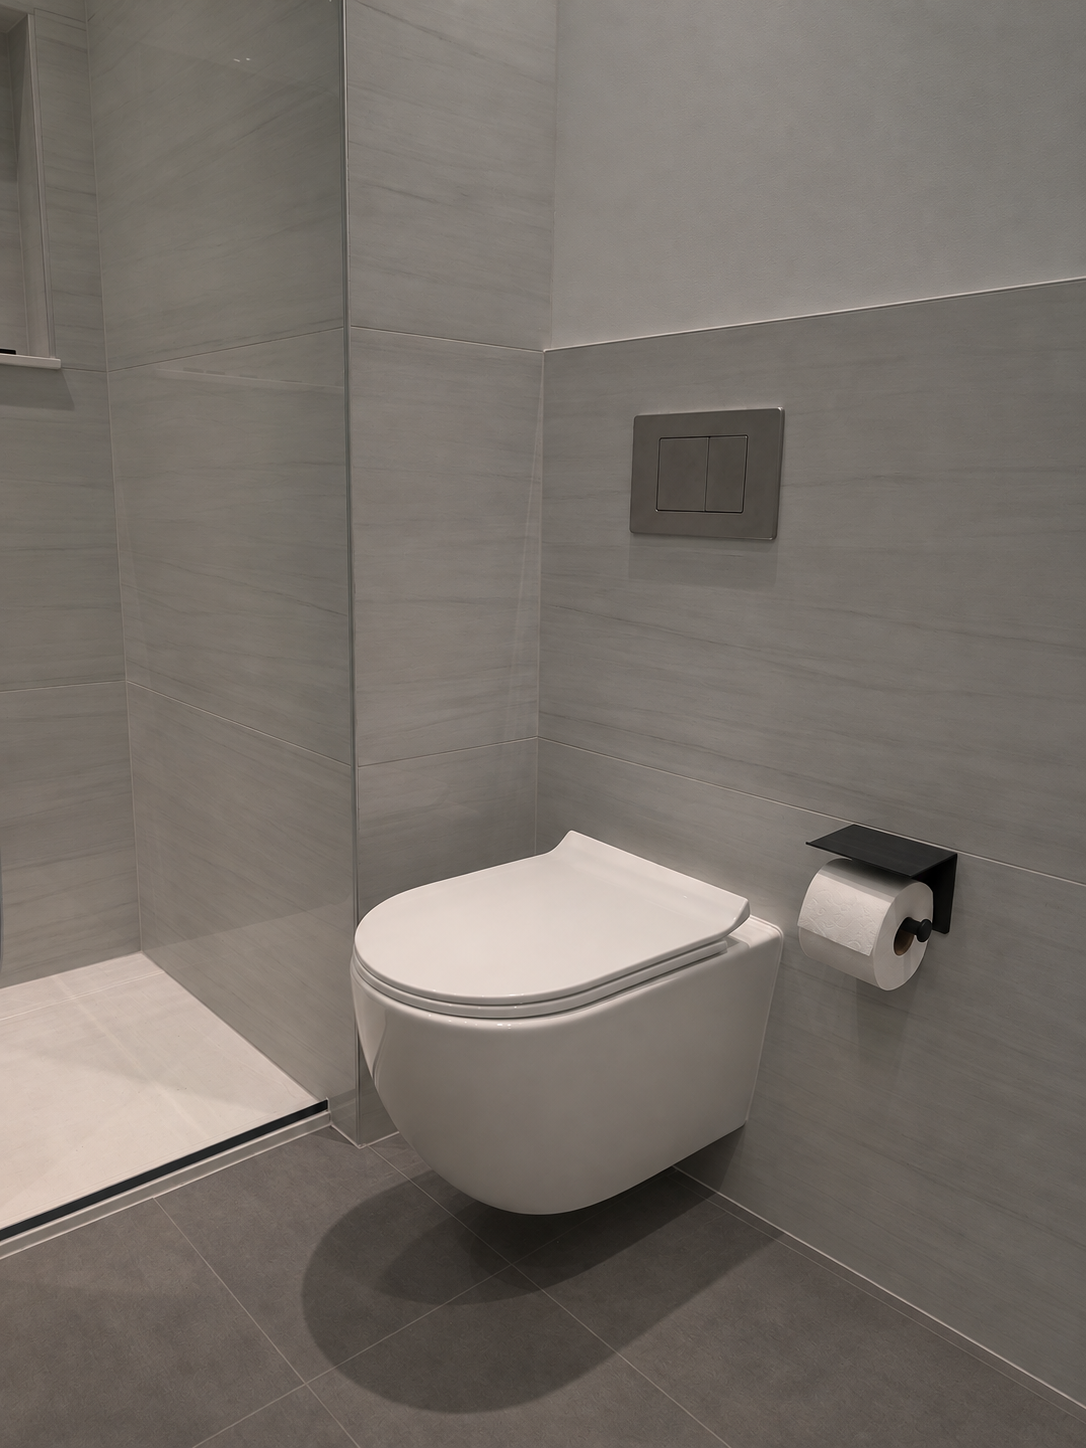
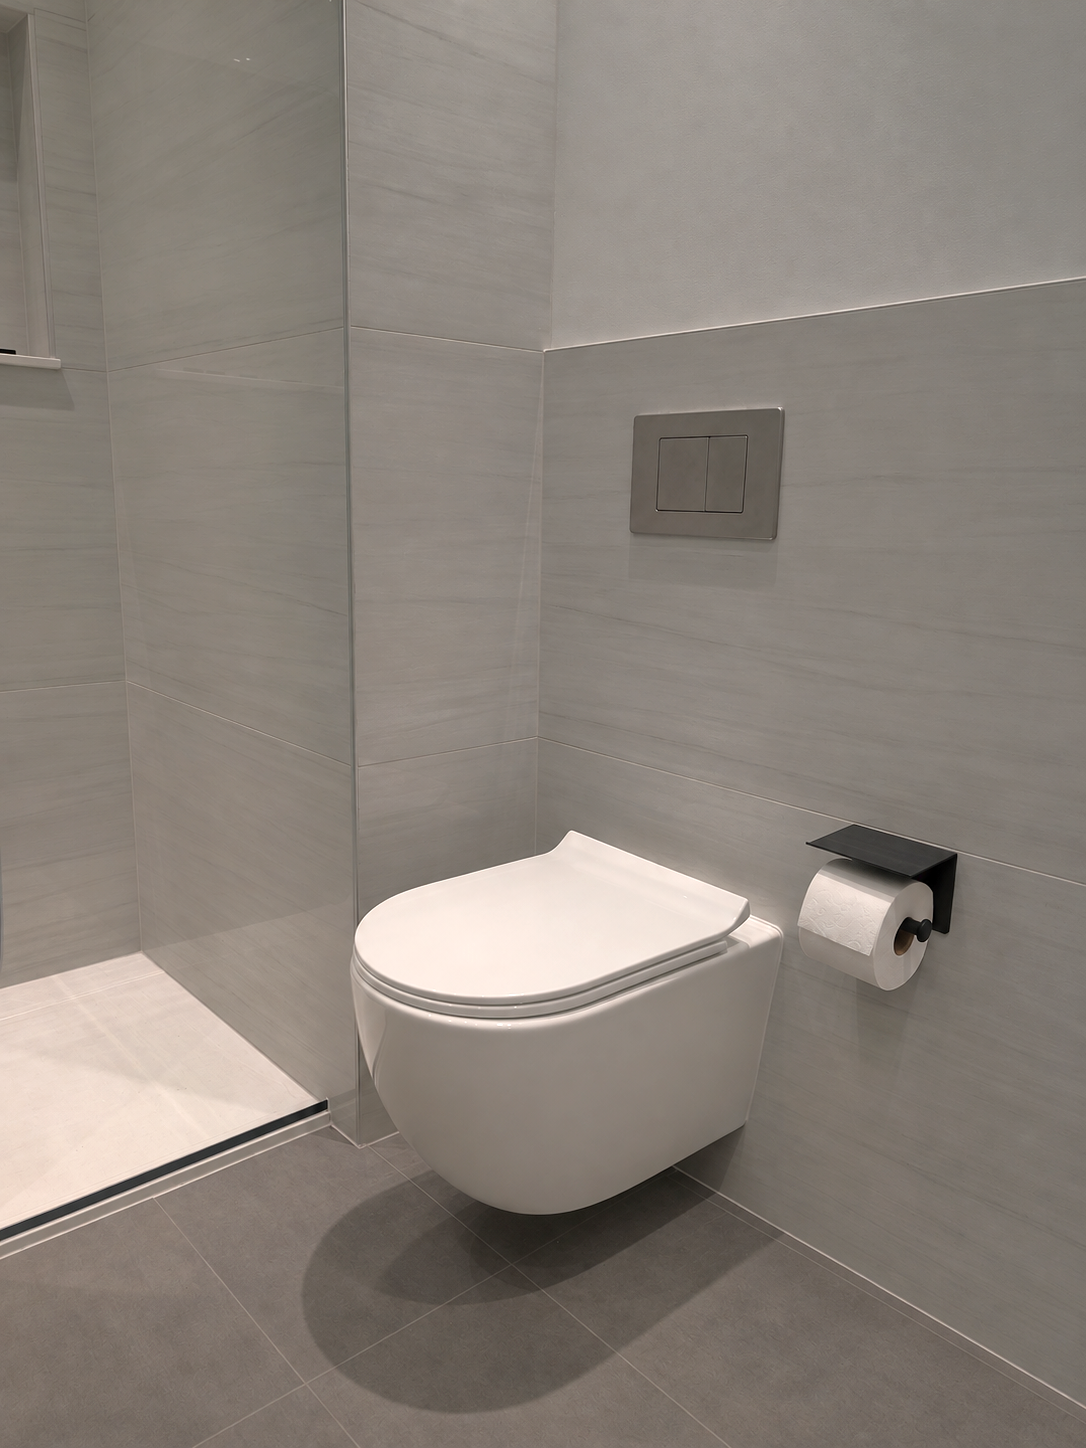
changes

Changed region(s): [[0.0, 0.6526, 0.2735, 0.8702], [0.3039, 0.5594, 0.7293, 0.7148], [0.7293, 0.5905, 0.8204, 0.6526]]

diff --git a/works/Bathrooms/monochrome-bathroom/monochrome-bathroom.html b/works/Bathrooms/monochrome-bathroom/monochrome-bathroom.html
@@ -116,8 +116,9 @@
     <div class="row justify-content-center">
       <div class="col-md-11 col-lg-9 blog-content mx-auto">
         <p class="lead mb-5">
-          A clean, monochrome bathroom design with an understated palette and timeless, modern detailing.
+          This bathroom remodel blends European style with sophisticated finishes in a century-old home.
         </p>
+        
           <div class="row mb-5">
             <div class="col-12">
               <figure class="figure-wide">
@@ -136,42 +137,14 @@
             <div class="row gx-4 figure-grid">
                 <div class="col-12 col-md-6">
                   <figure>
-                    <img src="3.png" alt="Monochrome Bathroom project photo 3" class="img-fluid" loading="lazy">
+                    <img src="11.jpg" alt="Monochrome Bathroom project photo 3" class="img-fluid" loading="lazy">
                   </figure>
                 </div>
                 <div class="col-12 col-md-6">
                   <figure>
-                    <img src="4.png" alt="Monochrome Bathroom project photo 4" class="img-fluid" loading="lazy">
+                    <img src="3.png" alt="Monochrome Bathroom project photo 4" class="img-fluid" loading="lazy">
                   </figure>
                 </div>
-            </div>
-          </div>
-          <div class="row mb-5">
-            <div class="col-12">
-              <figure class="figure-wide">
-                <img src="5.jpg" alt="Monochrome Bathroom project photo 5" class="img-fluid" loading="lazy">
-              </figure>
-            </div>
-          </div>
-          <div class="figure-wide-row mb-5">
-            <div class="row gx-4 figure-grid">
-                <div class="col-12 col-md-6">
-                  <figure>
-                    <img src="6.jpg" alt="Monochrome Bathroom project photo 6" class="img-fluid" loading="lazy">
-                  </figure>
-                </div>
-                <div class="col-12 col-md-6">
-                  <figure>
-                    <img src="7.jpg" alt="Monochrome Bathroom project photo 7" class="img-fluid" loading="lazy">
-                  </figure>
-                </div>
-            </div>
-          </div>
-          <div class="row mb-5">
-            <div class="col-12">
-              <figure class="figure-wide">
-                <img src="8.jpg" alt="Monochrome Bathroom project photo 8" class="img-fluid" loading="lazy">
-              </figure>
             </div>
           </div>
           <div class="figure-wide-row mb-5">
@@ -183,7 +156,7 @@
                 </div>
                 <div class="col-12 col-md-6">
                   <figure>
-                    <img src="10.jpg" alt="Monochrome Bathroom project photo 10" class="img-fluid" loading="lazy">
+                    <img src="8.jpg" alt="Monochrome Bathroom project photo 10" class="img-fluid" loading="lazy">
                   </figure>
                 </div>
             </div>
@@ -193,10 +166,6 @@
   </div>
 </section>
 
-
-
-    
-    
     <footer class="site-footer">
       <div class="container">
         <div class="row">

diff --git a/works/Kitchens/modern-traditional-kitchen/modern-traditional-kitchen.html b/works/Kitchens/modern-traditional-kitchen/modern-traditional-kitchen.html
@@ -98,7 +98,7 @@
 
   
 <section class="site-blocks-cover hero hero--vh-40"
-         style="background-image: url('1.jpg');">
+         style="background-image: url('9.jpg');">
   <div class="hero__overlay"></div>
   <div class="container hero__inner">
     <div class="row align-items-center justify-content-center">
@@ -115,24 +115,30 @@
     <div class="row justify-content-center">
       <div class="col-md-11 col-lg-9 blog-content mx-auto">
         <p class="lead mb-5">
-          A modern traditional kitchen that balances classic character with clean, contemporary design.
+          A kitchen that brings a modern, clean aesthetic with traditional cabinetry. 
         </p>
 
         <!-- Two full-width views -->
         <div class="row mb-5">
           <div class="col-12">
             <figure class="figure-wide">
-              <img src="1.jpg" alt="Modern Traditional Kitchen, view 1" class="img-fluid" loading="eager">
+              <img src="7.jpg" alt="Modern Traditional Kitchen, view 1" class="img-fluid" loading="eager">
             </figure>
           </div>
           <div class="col-12">
             <figure class="figure-wide">
-              <img src="2.jpg" alt="Modern Traditional Kitchen, view 2" class="img-fluid" loading="lazy">
+              <img src="1.jpg" alt="Modern Traditional Kitchen, view 2" class="img-fluid" loading="lazy">
+            </figure>
+          </div>
+          <div class="col-12">
+            <figure class="figure-wide">
+              <img src="6.jpg" alt="Modern Traditional Kitchen, view 2" class="img-fluid" loading="lazy">
+            <figcaption>Before</figcaption>
             </figure>
           </div>
         </div>
 
-        <!-- One large image beside two stacked images -->
+        <!-- One large image beside two stacked images
         <div class="collage-2x1 mb-5">
           <figure class="collage__left">
             <img src="3.jpg" alt="Modern Traditional Kitchen, view 3" class="collage__img" loading="lazy">
@@ -145,9 +151,9 @@
               <img src="5.jpg" alt="Modern Traditional Kitchen, view 5" class="collage__img" loading="lazy">
             </figure>
           </div>
-        </div>
+        </div> -->
 
-        <!-- Two-image row -->
+        <!-- Two-image row
         <div class="figure-wide-row mb-5">
           <div class="row gx-4 figure-grid">
             <div class="col-12 col-md-6">
@@ -161,7 +167,8 @@
               </figure>
             </div>
           </div>
-        </div>
+        </div> -->
+
       </div>
     </div>
   </div>
@@ -174,7 +181,6 @@
             <h2 class="footer-heading mb-4">About Us</h2>
             <p>Even the all-powerful Pointing has no control about the blind texts it is an almost unorthographic life One day however a small line of blind text by the name of Lorem Ipsum decided to leave for the far World of Grammar.</p>
           </div>
-
 
           <div class="col-md-3 ml-auto">
             <h2 class="footer-heading mb-4">Quick Links</h2>
